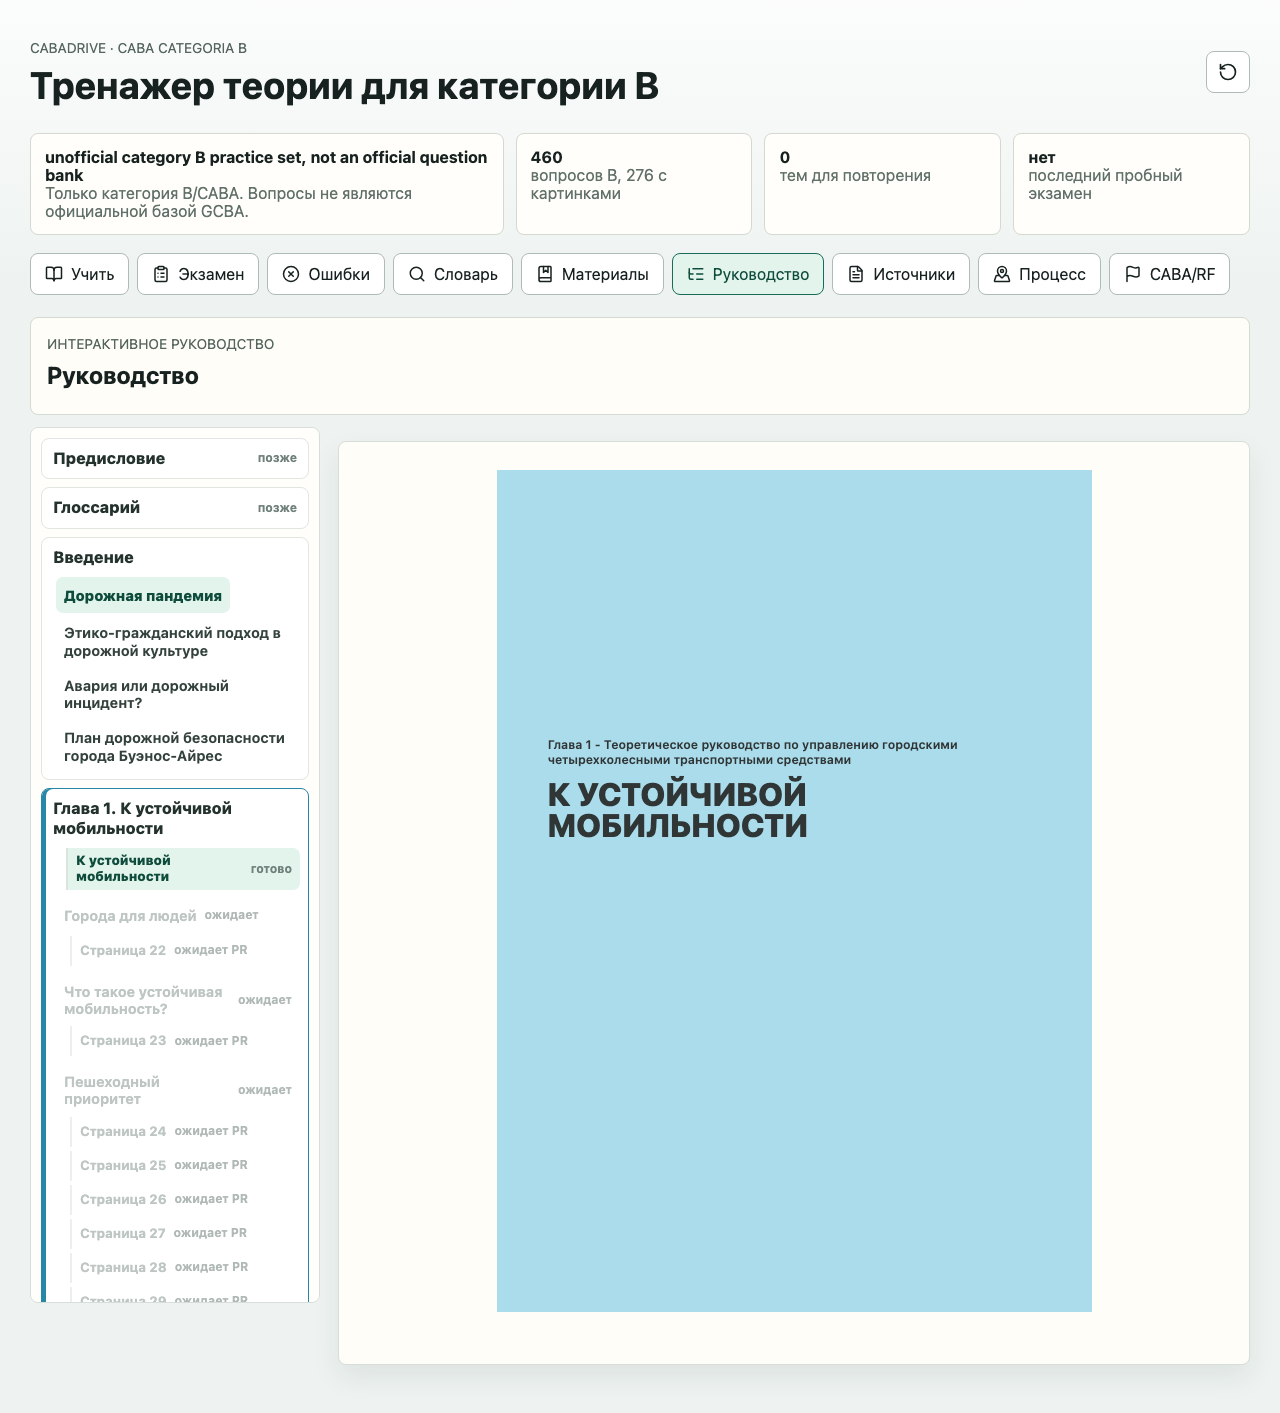
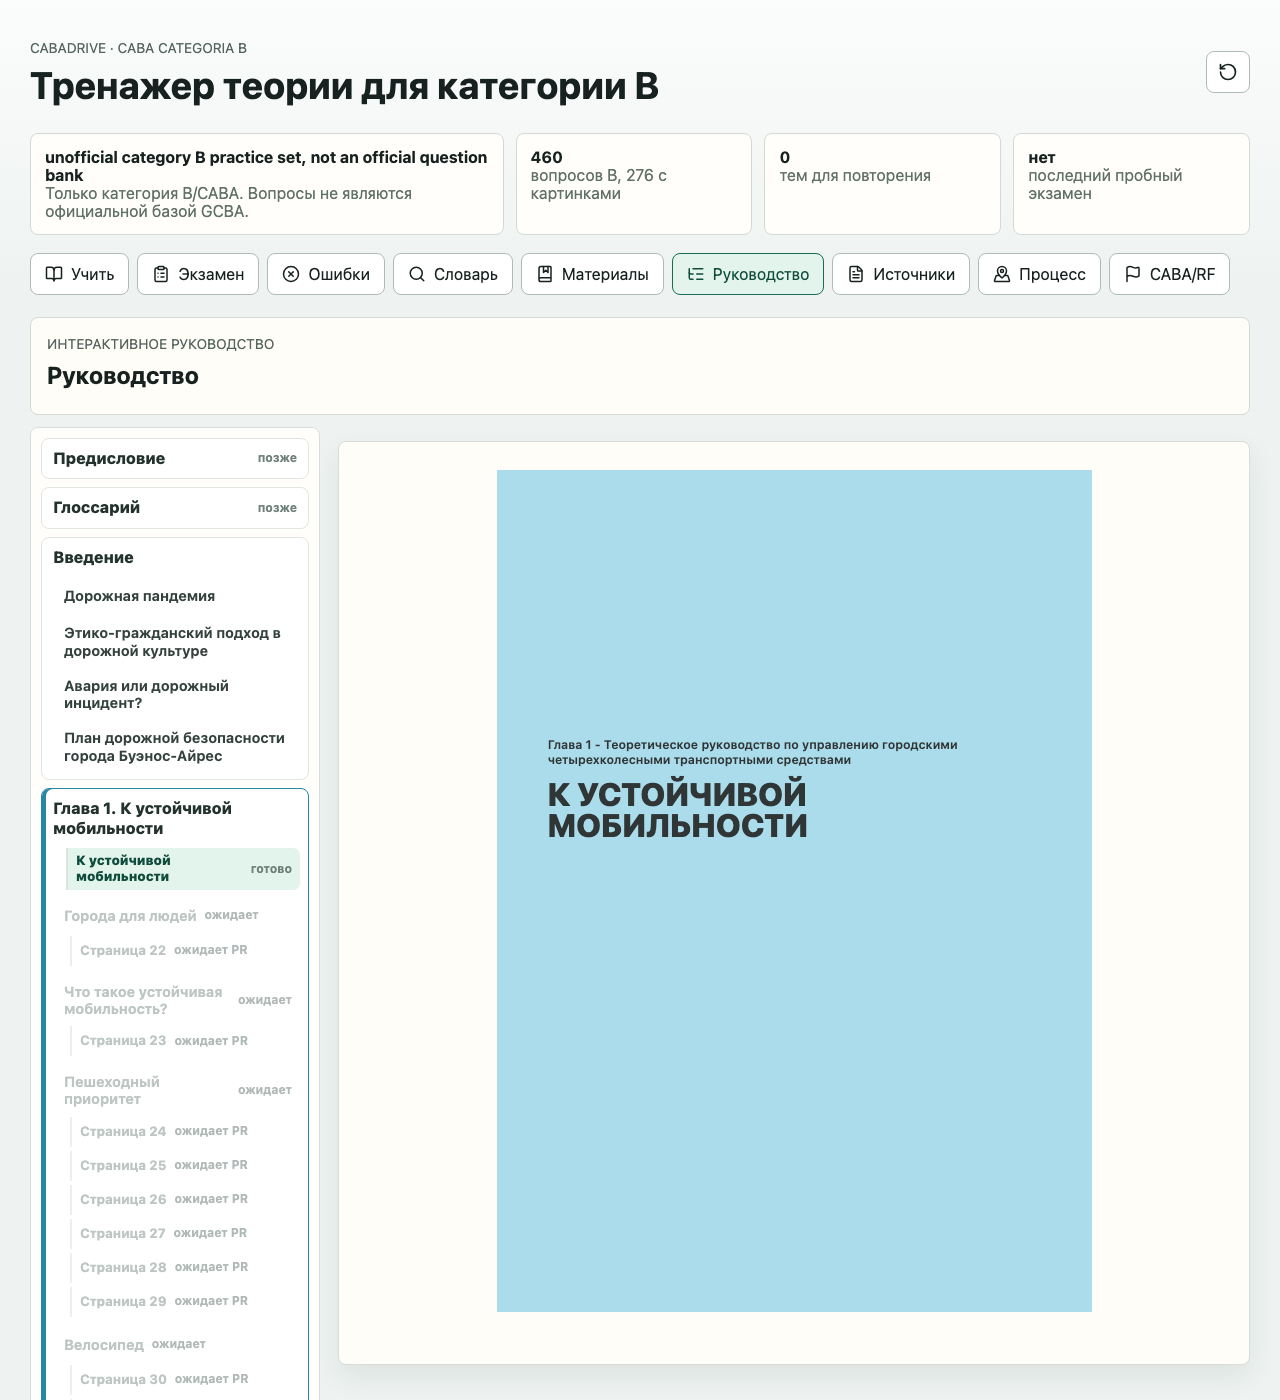
[codex] Address page 021 review findings

diff --git a/tests/e2e/app.spec.ts b/tests/e2e/app.spec.ts
@@ -2665,6 +2665,10 @@ test("Manual guide renders page 021 divider and keeps neighboring Chapter 1 and 
   await expect(page).toHaveURL(/#manual-page-021$/);
   await expect(nav).toHaveAttribute("data-active-group-id", "chapter-1-sustainable-mobility");
   await expect(nav).toHaveAttribute("data-active-child-id", "manual-page-021");
+  await expect(page21).toHaveAttribute("aria-current", "page");
+  const introRoadPandemicRoute = reader.getByTestId("intro-route-intro-road-pandemic");
+  await expect(introRoadPandemicRoute).not.toHaveAttribute("aria-current", "page");
+  await expect(introRoadPandemicRoute).not.toHaveClass(/active/);
   await expect(content.getByTestId("manual-guide-page")).toHaveAttribute("data-manual-page-id", "manual-page-021");
   const divider = content.locator('[data-block-kind="chapter-divider"]');
   await expect(divider).toHaveAttribute("data-block-kind", "chapter-divider");
@@ -2714,8 +2718,17 @@ test("Manual guide renders page 021 divider and keeps neighboring Chapter 1 and 
 
   await page.setViewportSize({ width: 390, height: 760 });
   await page.goto("/#manual-page-021");
-  await expect(content.getByRole("heading", { name: "К устойчивой мобильности" })).toBeVisible();
-  const mobileOverflow = await content.getByTestId("manual-guide-page").evaluate((node) => node.scrollWidth - node.clientWidth);
+  const directReader = page.getByTestId("introduction-reader");
+  const directNav = directReader.getByTestId("manual-guide-nav");
+  const directContent = directReader.getByTestId("manual-guide-content");
+  await expect(directNav).toHaveAttribute("data-active-group-id", "chapter-1-sustainable-mobility");
+  await expect(directNav).toHaveAttribute("data-active-child-id", "manual-page-021");
+  await expect(directReader.getByTestId("manual-guide-pending-manual-page-021")).toHaveAttribute("aria-current", "page");
+  const directIntroRoadPandemicRoute = directReader.getByTestId("intro-route-intro-road-pandemic");
+  await expect(directIntroRoadPandemicRoute).not.toHaveAttribute("aria-current", "page");
+  await expect(directIntroRoadPandemicRoute).not.toHaveClass(/active/);
+  await expect(directContent.getByRole("heading", { name: "К устойчивой мобильности" })).toBeVisible();
+  const mobileOverflow = await directContent.getByTestId("manual-guide-page").evaluate((node) => node.scrollWidth - node.clientWidth);
   expect(mobileOverflow).toBeLessThanOrEqual(1);
 });
 

diff --git a/src/data/manual-pages/manual-page-021.ts b/src/data/manual-pages/manual-page-021.ts
@@ -27,7 +27,7 @@ export const manualPage021: ManualGuidePageContent = {
       eyebrowRu: "Глава 1 - Теоретическое руководство по управлению городскими четырехколесными транспортными средствами",
       titleRu: "К устойчивой мобильности",
       sourceTextEs:
-        "HACIA UNA MOVILIDAD SUSTENTABLE\nCapítulo 1 - Manual teórico de conducción de vehículos urbanos de cuatro ruedas",
+        "Capítulo 1 - Manual teórico de conducción de vehículos urbanos de cuatro ruedas\nHACIA UNA MOVILIDAD SUSTENTABLE",
       panelAssetPath:
         "content/assets/manuals/gcba-manual-vehiculo-4-ruedas-2023/sections/chapter-1/page-021/chapter-divider-panel-clean.svg",
       sourcePage: 21,

diff --git a/src/App.tsx b/src/App.tsx
@@ -2025,7 +2025,7 @@ function IntroductionSectionsView({
                   <div className="manual-guide-children" role="list">
                     {entry.children.map((child) => {
                       const introEntry = child.introductionRouteId ? introductionEntryById(child.introductionRouteId) : undefined;
-                      const isActiveChild = child.introductionRouteId === selectedEntry.id;
+                      const isActiveChild = !selectedManualPage && child.introductionRouteId === selectedEntry.id;
                       return (
                         <div
                           key={child.id}

diff --git a/specs/030-manual-chapters-1-2/tasks.md b/specs/030-manual-chapters-1-2/tasks.md
@@ -298,6 +298,10 @@ For each page `NNN`:
   - Vite dev server on `127.0.0.1:5181` was stopped after screenshot/route verification.
 - T026 Docker runtime fallback: `make build` did not complete because Docker stalled loading uncached base image metadata for `docker.io/library/node:22-alpine` and `docker.io/library/nginx:1.29-alpine`; the visible symptom was `load metadata for docker.io/library/node:22-alpine` and `load metadata for docker.io/library/nginx:1.29-alpine`, then manual interrupt with `make: *** [build] Error 130`. `docker images node:22-alpine` and `docker images nginx:1.29-alpine` returned no cached local images. `docker compose config --services` returned `cabadrive`. Bounded retry command `perl -e '$SIG{ALRM}=sub{ kill q(TERM), -$$; exit 124 }; alarm 120; system @ARGV; exit($? == -1 ? 127 : ($? >> 8))' docker compose build --progress=plain` also stalled on the same metadata step and exited without building. Since the image was not built, isolated `make up`/`make down` was not run. GitHub `docker-validation` remains a required merge gate.
 - T027: Implementation Agent feedback requiring Architect disposition: none. Scope note: this PR implements only source page `21`; pages `022-056` remain pending in the registry and disabled in the UI.
+- Review fix evidence for PR #175 current head:
+  - P2 comment `3327364321` / review `4393406363`: fixed stale Introduction active/current state by making Introduction child button active logic conditional on no implemented manual page being selected. Focused e2e now verifies both click navigation and direct `/#manual-page-021` load expose `manual-page-021` as the only child-level `aria-current="page"` target and suppress `intro-road-pandemic` `active`/`aria-current`. Desktop/mobile evidence screenshots were regenerated after this nav-state fix.
+  - P2 comment `3327371419` / review `4393414238`: source-backed not-needed for visual/read-order reversal. The recorded source crop `content/validation/manual-guide/page-021/source-panel-region.jpg` shows the small `Capítulo 1 - Manual teórico...` line above the large `HACIA UNA MOVILIDAD SUSTENTABLE` title, so the rendered Russian chapter/manual line remains above `К устойчивой мобильности`. The page-local `sourceTextEs` metadata was corrected to the same source order; no screenshot regeneration was needed because rendered pixels/order did not change.
+  - Review-fix verification note: `node scripts/manual-guide-source-fidelity.mjs`, `node --test tests/content-manual-guide-chapters.test.mjs`, `pnpm run build`, and focused `pnpm exec playwright test tests/e2e/app.spec.ts -g "Manual guide renders page 021"` passed. The first focused e2e run before rebuilding `dist` served stale `vite preview` output and still showed the old active state; after `pnpm run build`, the same focused e2e passed `2/2`.
 
 ### Cycle PR Set
 
